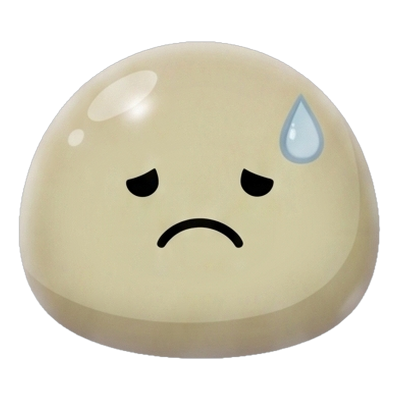
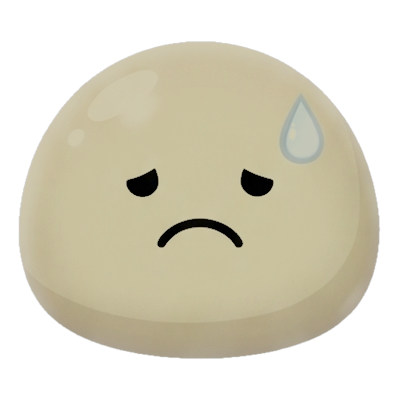
style(mallang): 좋았어요 약간 유광·지쳤어요 무광·그냥저냥 라이트그레이

diff --git a/src/lib/mallangSkins.js b/src/lib/mallangSkins.js
@@ -39,7 +39,7 @@ export const MALLANG_EYE_RECT = {
   malang2d: {
     1: { x: 0.25, y: 0.40, w: 0.50, h: 0.11, cw: 400, ch: 400, color: "#5C4250" },
     2: { x: 0.25, y: 0.40, w: 0.50, h: 0.11, cw: 400, ch: 400, color: "#D0C8A3" },
-    3: { x: 0.25, y: 0.40, w: 0.50, h: 0.11, cw: 400, ch: 400, color: "#EAE4FB" },
+    3: { x: 0.25, y: 0.40, w: 0.50, h: 0.11, cw: 400, ch: 400, color: "#D6D6D9" },
     4: { x: 0.25, y: 0.40, w: 0.50, h: 0.11, cw: 400, ch: 400, color: "#D9C7F5" },
     5: { x: 0.25, y: 0.40, w: 0.50, h: 0.11, cw: 400, ch: 400, color: "#BF8FE9" },
     _color: "#FFFFFF",
